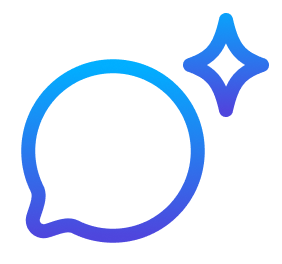
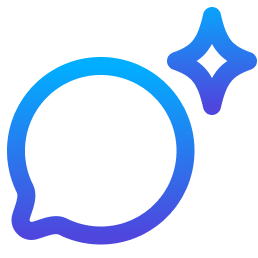
fix: 로그인 mock 데이터 업데이트 및 AI 채팅 아이콘 크기 수정

diff --git a/store/auth.ts b/store/auth.ts
@@ -52,9 +52,18 @@ export const useAuthStore = create<AuthState>()(
 
         set({ isLoading: true });
         try {
-          // Mock 모드인 경우 스킵
+            // Mock 모드인 경우 모의 사용자로 자동 로그인
           if (process.env.NEXT_PUBLIC_USE_MOCK === 'true') {
-            set({ isLoading: false });
+            set({
+              user: {
+                id: 'mock-user-1',
+                email: 'test@example.com',
+                name: '테스트 사용자',
+                role: 'user',
+              },
+              isAuthenticated: true,
+              isLoading: false,
+            });
             return;
           }
 

diff --git a/components/layout/Topbar.tsx b/components/layout/Topbar.tsx
@@ -78,9 +78,9 @@ export function Topbar() {
           <Image
             src="/ai-chat-icon.png"
             alt="AI 어시스턴트"
-            width={20}
-            height={20}
-            className="h-5 w-5 group-hover:scale-110 transition-transform"
+            width={22}
+            height={22}
+            className="h-5.5 w-5.5 group-hover:scale-110 transition-transform -mt-1"
           />
           {!aiChatOpen && unread > 0 && (
             <span className="absolute top-1 right-1 h-2 w-2 bg-indigo-500 rounded-full animate-pulse" />
